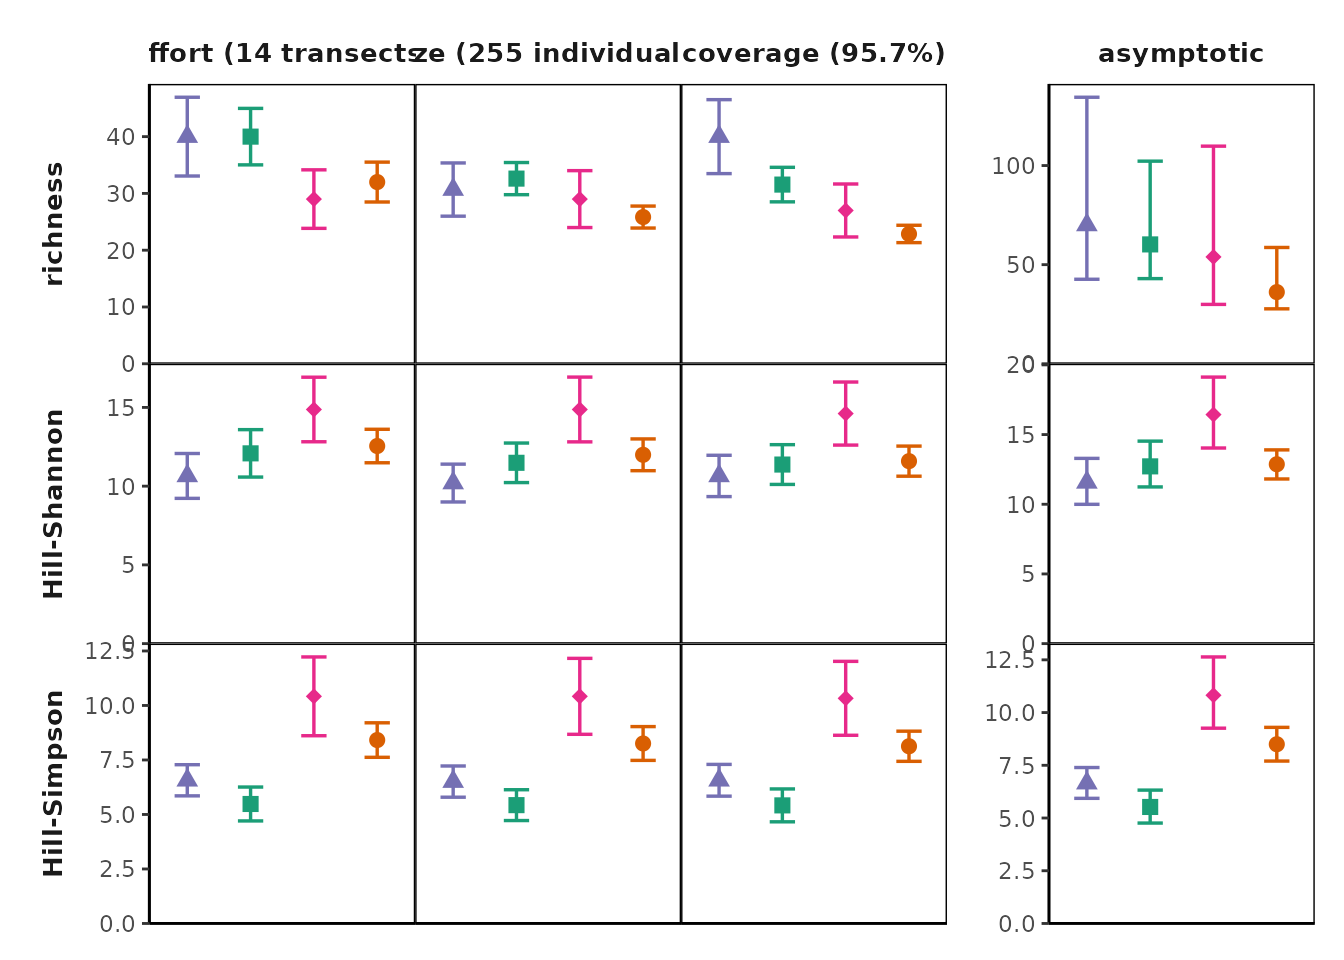
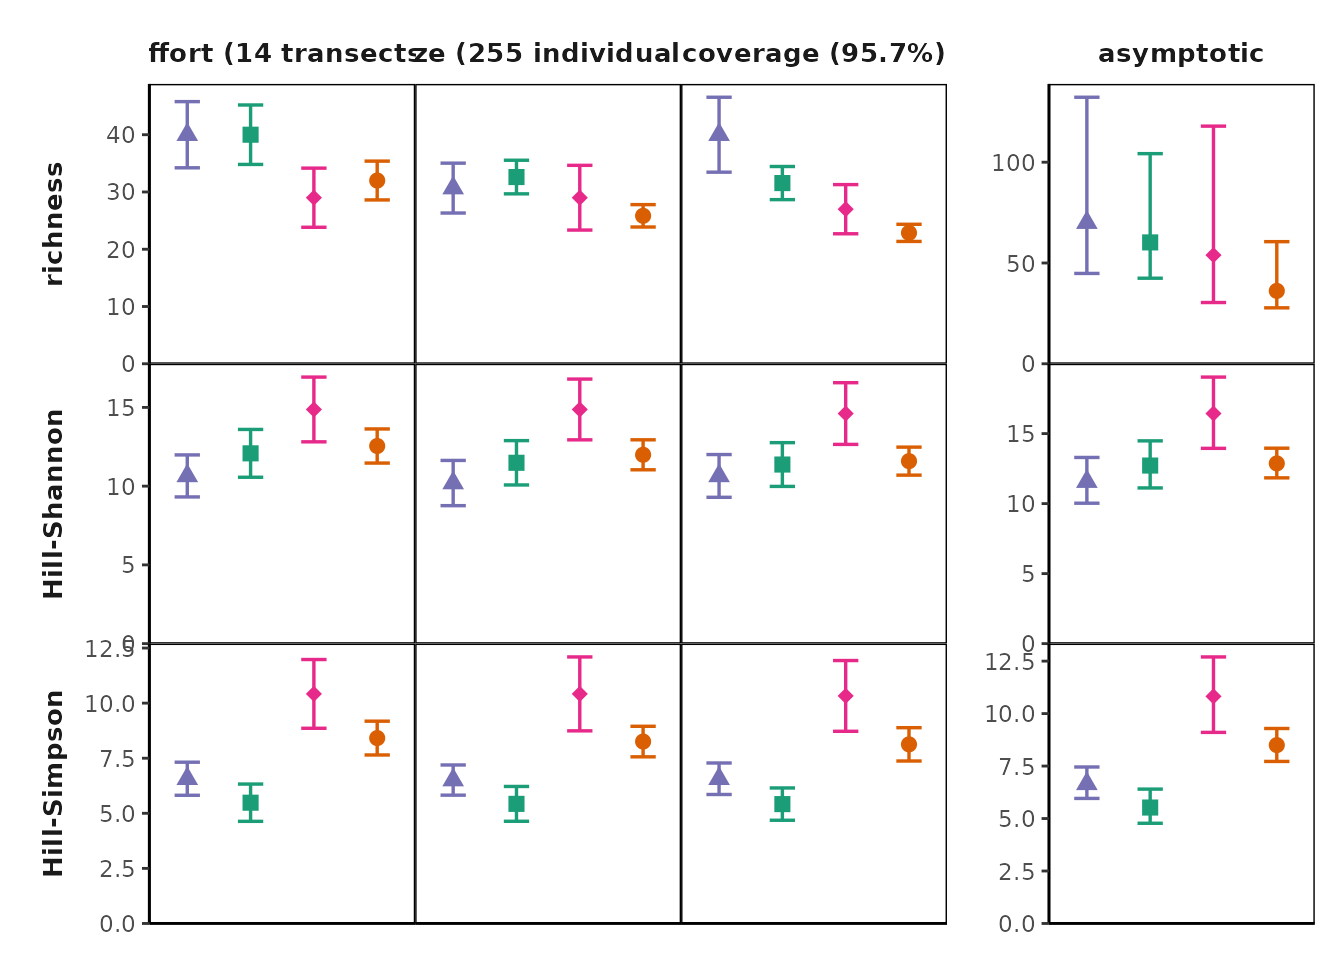
Built site for MeanRarity: 0.0.1.0001@16996fe

diff --git a/articles/Using_MeanRarity.html b/articles/Using_MeanRarity.html
@@ -296,16 +296,16 @@
 <span class="va">uneven_sample</span> <span class="op">&lt;-</span> <span class="fu"><a href="../reference/sample_infinite.html">sample_infinite</a></span><span class="op">(</span><span class="va">uneven_SAD</span><span class="op">$</span><span class="va">rel_abundances</span>, <span class="fl">50</span><span class="op">)</span>
 <span class="co">#sample_infinite returns a numeric vector of sample species abundances</span>
 <span class="va">even_sample</span>
-<span class="co">#&gt;  [1] 9 6 4 2 2 8 1 2 1 4 2 1 2 2 0 1 0 1 2 0</span>
+<span class="co">#&gt;  [1] 6 9 4 2 4 0 2 1 4 3 0 5 3 1 2 0 3 1 0 0</span>
 <span class="va">uneven_sample</span>
-<span class="co">#&gt;  [1] 20  6  6  4  1  3  0  1  1  1  1  2  1  2  1  0  0  0  0  0</span>
+<span class="co">#&gt;  [1] 21  5  4  5  4  2  0  0  2  0  0  2  3  0  0  0  1  0  0  1</span>
 
 <span class="co"># we can compare evenness (given a scaling parameter `l`)</span>
 <span class="co"># the evenness is the normalized ratio of an arbitrary Hill diversity to richness</span>
 <span class="fu"><a href="../reference/e3Fun.html">e3Fun</a></span><span class="op">(</span><span class="va">even_sample</span>, <span class="op">-</span><span class="fl">1</span><span class="op">)</span>
-<span class="co">#&gt; [1] 0.5726626</span>
+<span class="co">#&gt; [1] 0.6982759</span>
 <span class="fu"><a href="../reference/e3Fun.html">e3Fun</a></span><span class="op">(</span><span class="va">uneven_sample</span>, <span class="op">-</span><span class="fl">1</span><span class="op">)</span>
-<span class="co">#&gt; [1] 0.2986779</span>
+<span class="co">#&gt; [1] 0.3578755</span>
 
 <span class="co"># compare diversity from sample vs. ideal SAD:</span>
 <span class="co"># likely pretty far off for a small sample!</span>
@@ -317,8 +317,8 @@
 <span class="fu"><a href="https://rdrr.io/r/base/cbind.html">rbind</a></span><span class="op">(</span><span class="fu"><a href="https://rdrr.io/r/base/lapply.html">lapply</a></span><span class="op">(</span><span class="fu"><a href="https://rdrr.io/r/base/c.html">c</a></span><span class="op">(</span><span class="fl">1</span>, <span class="fl">0</span>, <span class="op">-</span><span class="fl">1</span><span class="op">)</span>, <span class="kw">function</span><span class="op">(</span><span class="va">l</span><span class="op">)</span><span class="op">{</span>
   <span class="fu"><a href="../reference/rarity.html">rarity</a></span><span class="op">(</span><span class="va">even_sample</span>, <span class="va">l</span><span class="op">)</span>
 <span class="op">}</span><span class="op">)</span><span class="op">)</span>
-<span class="co">#&gt;      [,1] [,2]     [,3]   </span>
-<span class="co">#&gt; [1,] 17   12.84446 10.1626</span>
+<span class="co">#&gt;      [,1] [,2]     [,3]    </span>
+<span class="co">#&gt; [1,] 15   12.51502 10.77586</span>
 
 <span class="co"># with an uneven SAD, sample Hill-Simpson can be higher than true Hill-Simpson</span>
 <span class="co"># richness is always lower</span>
@@ -329,7 +329,7 @@
   <span class="fu"><a href="../reference/rarity.html">rarity</a></span><span class="op">(</span><span class="va">uneven_sample</span>, <span class="va">l</span><span class="op">)</span>
 <span class="op">}</span><span class="op">)</span><span class="op">)</span>
 <span class="co">#&gt;      [,1] [,2]     [,3]    </span>
-<span class="co">#&gt; [1,] 14   7.779062 4.882812</span>
+<span class="co">#&gt; [1,] 11   6.962471 4.578755</span>
 
 
 <span class="va">big_even_sample</span> <span class="op">&lt;-</span> <span class="fu"><a href="../reference/sample_infinite.html">sample_infinite</a></span><span class="op">(</span><span class="va">even_SAD</span><span class="op">$</span><span class="va">rel_abundances</span>, <span class="fl">1e7</span><span class="op">)</span>
@@ -342,8 +342,8 @@
 <span class="fu"><a href="https://rdrr.io/r/base/cbind.html">rbind</a></span><span class="op">(</span><span class="fu"><a href="https://rdrr.io/r/base/lapply.html">lapply</a></span><span class="op">(</span><span class="fu"><a href="https://rdrr.io/r/base/c.html">c</a></span><span class="op">(</span><span class="fl">1</span>, <span class="fl">0</span>, <span class="op">-</span><span class="fl">1</span><span class="op">)</span>, <span class="kw">function</span><span class="op">(</span><span class="va">l</span><span class="op">)</span><span class="op">{</span>
   <span class="fu"><a href="../reference/rarity.html">rarity</a></span><span class="op">(</span><span class="va">big_even_sample</span>, <span class="va">l</span><span class="op">)</span>
 <span class="op">}</span><span class="op">)</span><span class="op">)</span>
-<span class="co">#&gt;      [,1] [,2]     [,3]    </span>
-<span class="co">#&gt; [1,] 20   15.11551 11.99426</span>
+<span class="co">#&gt;      [,1] [,2]     [,3]   </span>
+<span class="co">#&gt; [1,] 20   15.12243 12.0043</span>
 
 <span class="co"># with an uneven SAD, sample Hill-Simpson can be higher than true Hill-Simpson</span>
 <span class="co"># richness is always lower</span>
@@ -354,7 +354,7 @@
   <span class="fu"><a href="../reference/rarity.html">rarity</a></span><span class="op">(</span><span class="va">big_uneven_sample</span>, <span class="va">l</span><span class="op">)</span>
 <span class="op">}</span><span class="op">)</span><span class="op">)</span>
 <span class="co">#&gt;      [,1] [,2]     [,3]    </span>
-<span class="co">#&gt; [1,] 20   9.373459 6.002025</span></code></pre></div>
+<span class="co">#&gt; [1,] 20   9.364381 5.995395</span></code></pre></div>
 <p>For any distribution of relative abundances, one can ask, “what is the Hill diversity of this distribution?” Yet the answer, of course, depends on the chosen value of the scaling parameter <span class="math inline">\(\ell\)</span>. For a comprehensive answer, one might look across values of <span class="math inline">\(\ell\)</span>, also known as a Hill “diversity profile” <span class="citation">(Chao et al. 2014)</span>. <code>MeanRarity</code> provides a function to generate a Hill diversity profile based on <span class="math inline">\(\ell\)</span> (rather than <span class="math inline">\(q\)</span>): <code><a href="../reference/divpro.html">divpro()</a></code>.</p>
 <div class="sourceCode" id="cb10"><pre class="downlit sourceCode r">
 <code class="sourceCode R"><span class="co"># the even and uneven communities have same richness but different Hill diversity when `ell != 1`</span>
